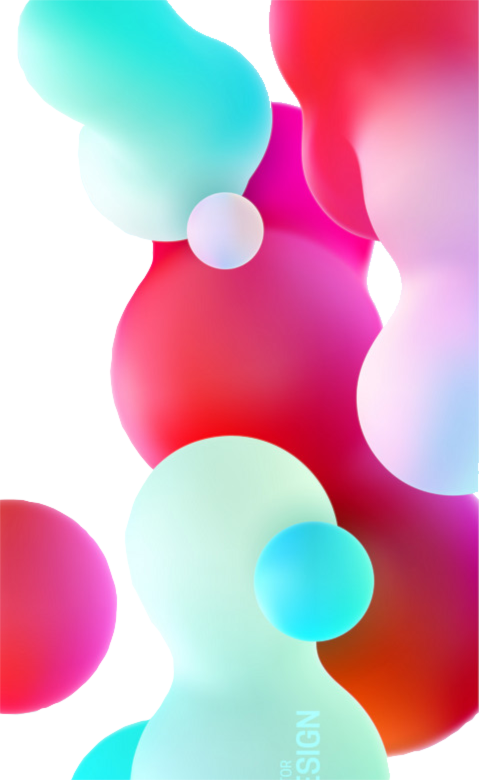
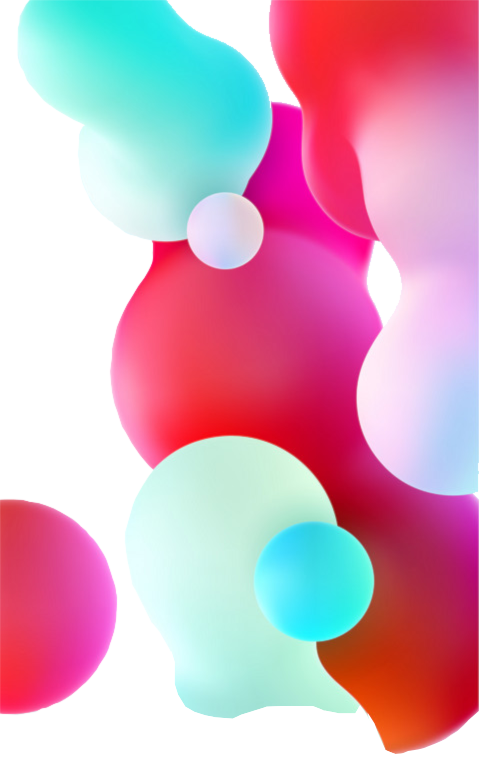
p2bg changed

Changed region(s): [[0.1461, 0.8615, 0.8476, 1.0]]

diff --git a/style.css b/style.css
@@ -6,10 +6,6 @@ body
     margin:0;
     background-color: white;
     font-size: 0px;
-    background-image: url(p2bg.png);
-    background-repeat: no-repeat;
-    background-size: cover;
-    background-attachment: fixed;
 }
 
 .topbar
@@ -144,7 +140,7 @@ body
 {
     display:block;
     width:100%;
-    height:900px;
+    height:700px;
     margin:0;
     padding-top: 54px;
 }
@@ -155,6 +151,9 @@ body
     width:100%;
     height:100%;
     margin:0;
+    background-image: url(p2bg.png);
+    background-repeat: no-repeat;
+    background-size: cover;
 }
 
 .p1title 
